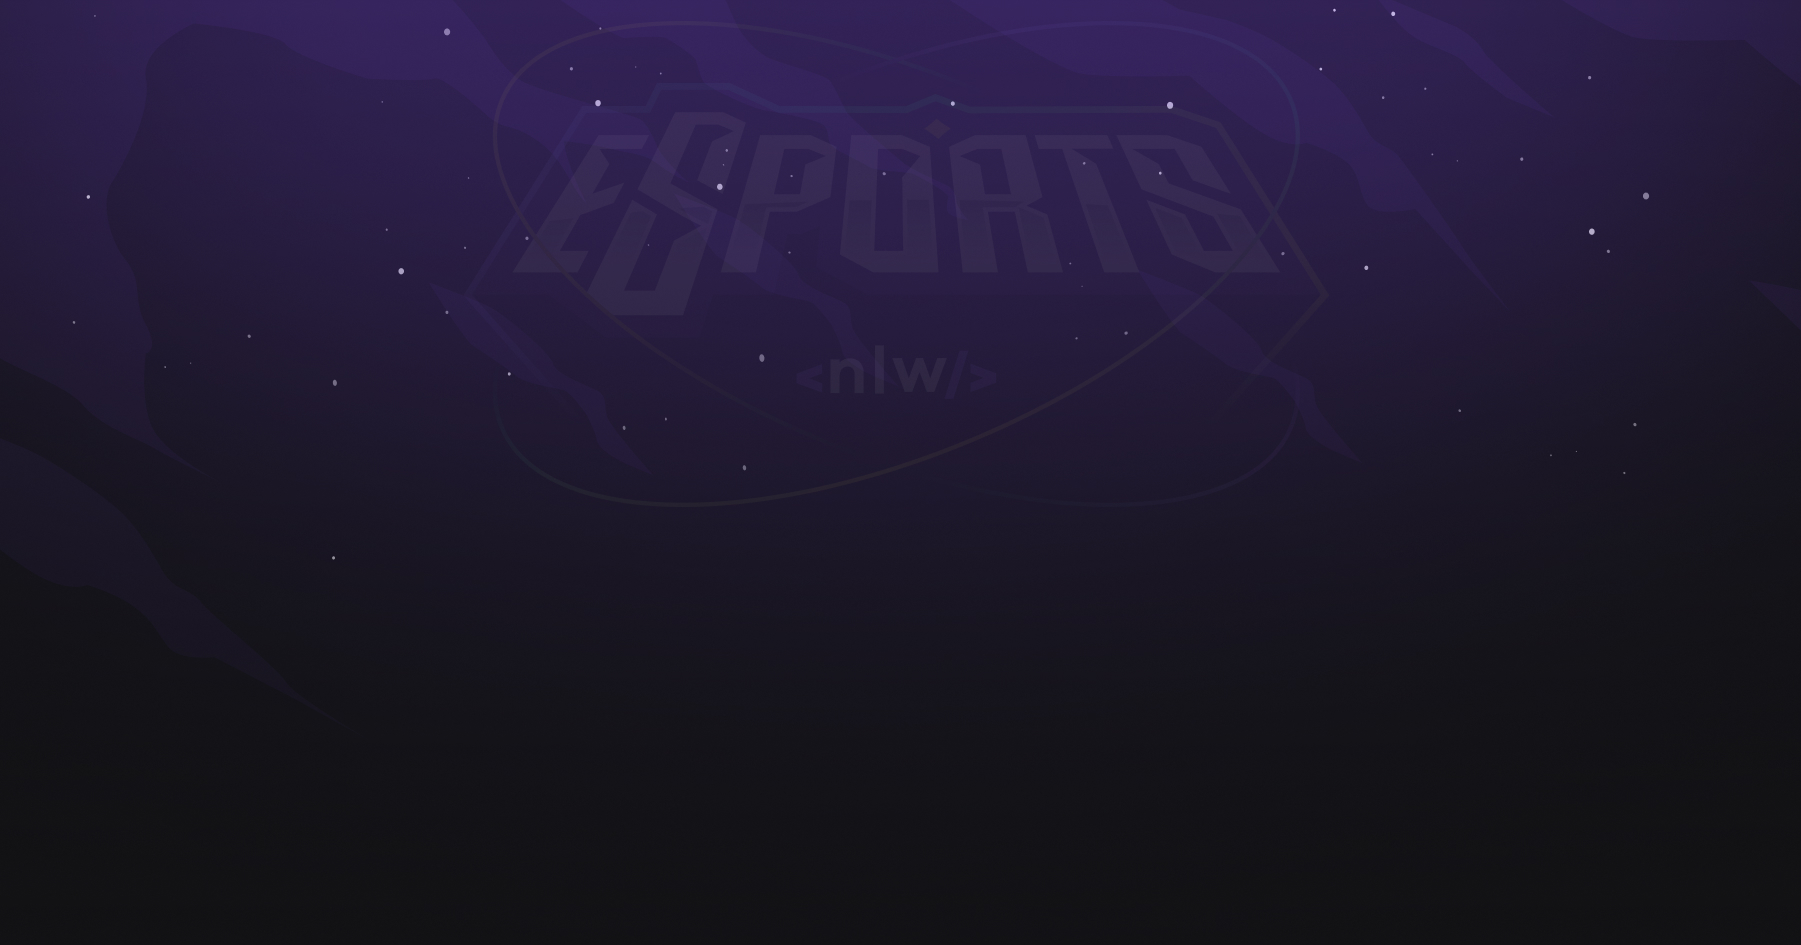
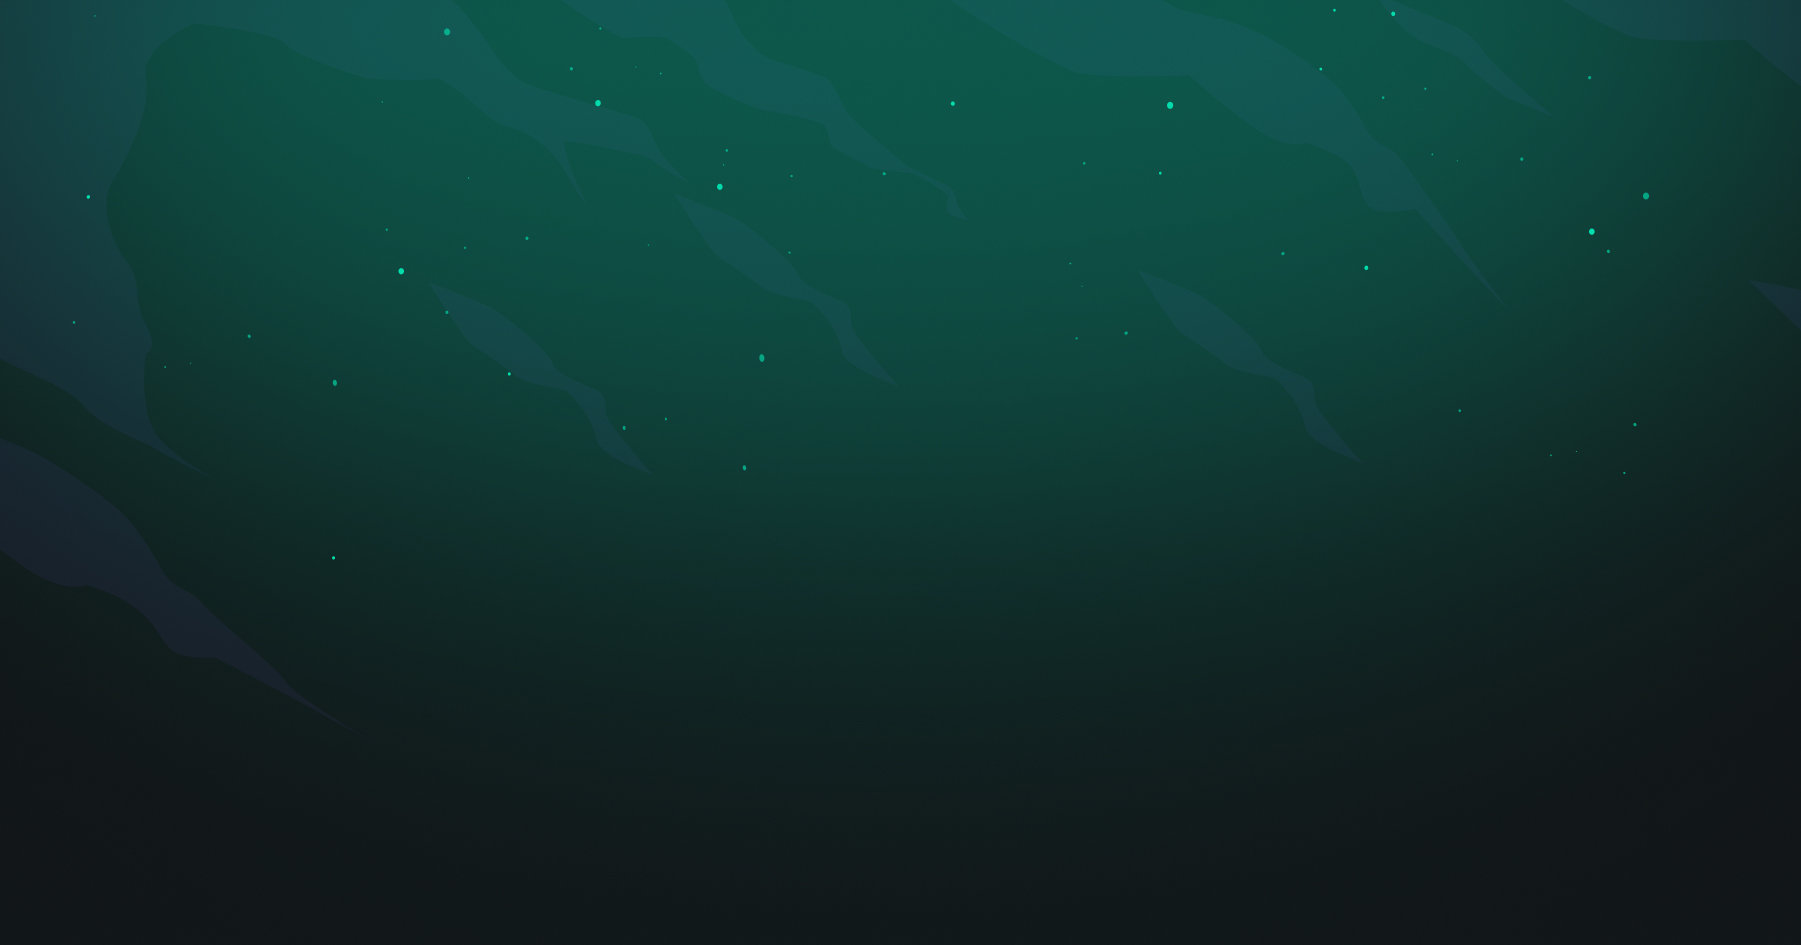
alterações no site

diff --git a/style.css b/style.css
@@ -20,7 +20,7 @@ header {
 header div {
     width: 120px;
     margin: auto;
-    background-image: linear-gradient(90deg, #9572FC 0%, #43E7AD 50.52%, #E2D45C 100%);
+    background-image: linear-gradient(90deg, #F65F0A 0%, #C19949 50.52%, #F3DDB1 100%);
     border-radius: 50%;
     display: flex;
     padding: 4px;
@@ -41,7 +41,7 @@ header img {
 }
 
 body {
-    background-color: #121214;
+    background-color: #111719;
     background-image: url(imagens/Fundo.jpg);
     background-position: top center;
     background-size: 100% auto;
@@ -65,7 +65,7 @@ main {
 
 section {
     color: white;
-    background: linear-gradient(90deg, #9572FC 0%, #43E7AD 50.52%, #E2D45C 100%);
+    background: linear-gradient(90deg, #F65F0A 0%, #C19949 50.52%, #F3DDB1 100%);
     padding-top: 4px;
     border-radius: 10px;
 }
@@ -84,7 +84,7 @@ section p {
 }
 
 section div {
-    background-color: #2A2634;
+    background-color: #2a2634f1;
     padding: 32px;
     padding-top: 24px;
     border-radius: 8px;
@@ -121,6 +121,7 @@ section ul li:hover {
 a {
     text-decoration: none;
 }
+
 
 /* animation */
 
